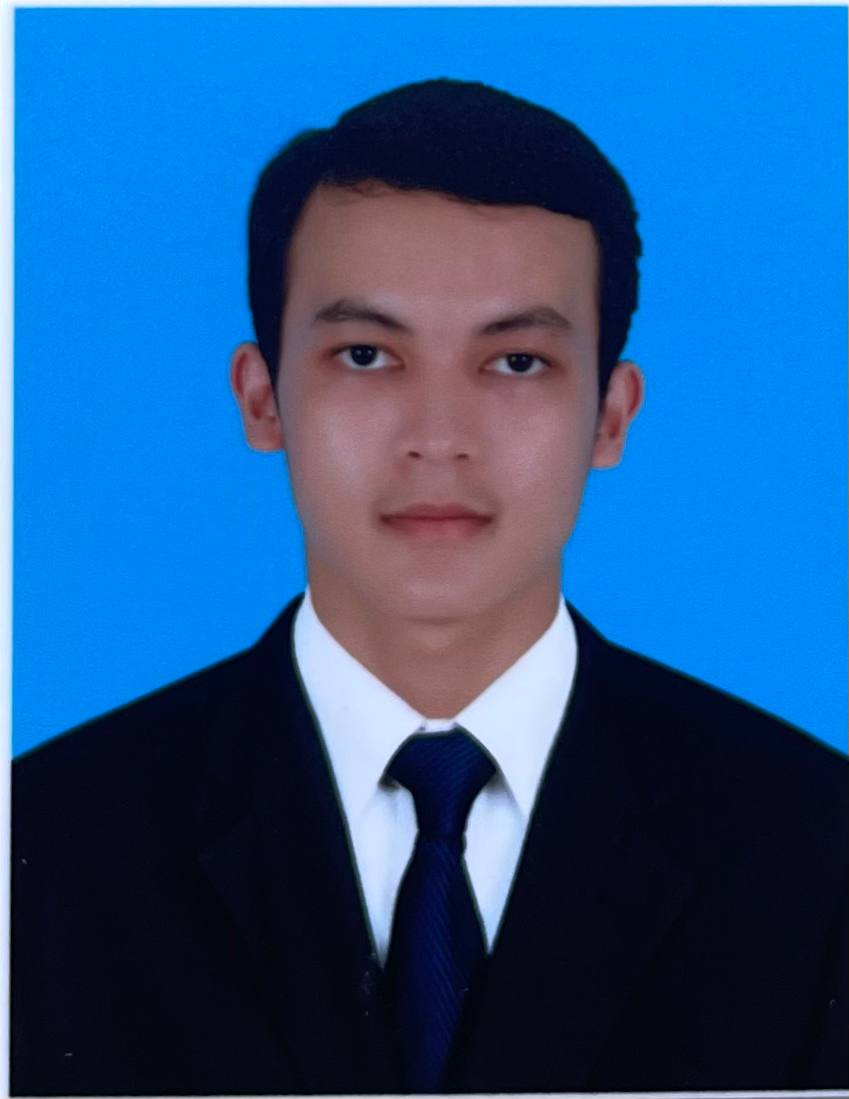
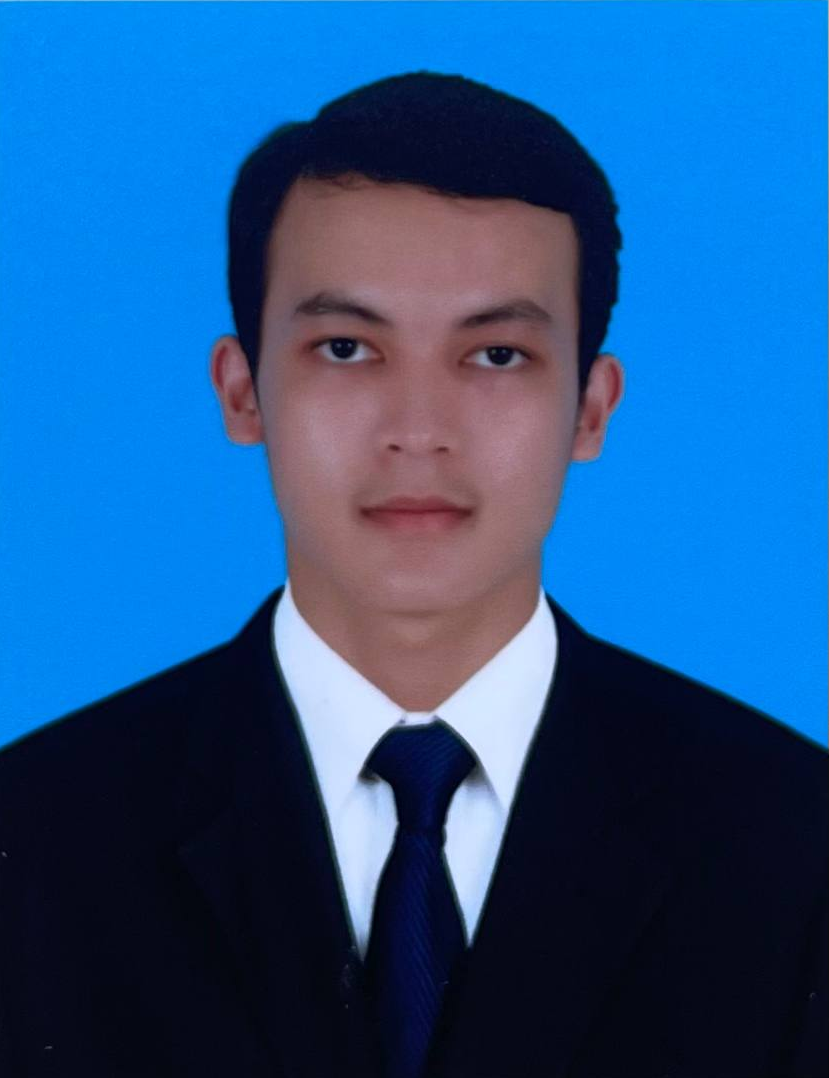
..

diff --git a/index.html b/index.html
@@ -22,7 +22,7 @@
           </th>
           <th class="letter_header">
             <h1>Thin Panha</h1>
-            <p>Cyber Security Analust</p>
+            <p>Cyber Security Analyst</p>
           </th>
         </table>
       </div>

diff --git a/style.css b/style.css
@@ -50,8 +50,8 @@ body {
 }
 img {
   max-width: 100%;
-  width: 150px;
-  height: 150px;
+  width: 160px;
+  height: 160px;
   border-radius: 50%;
   margin: 20px;
   align-content: center;
